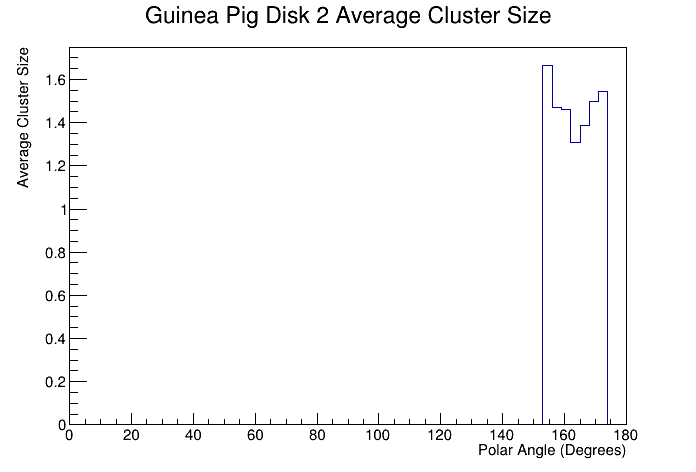
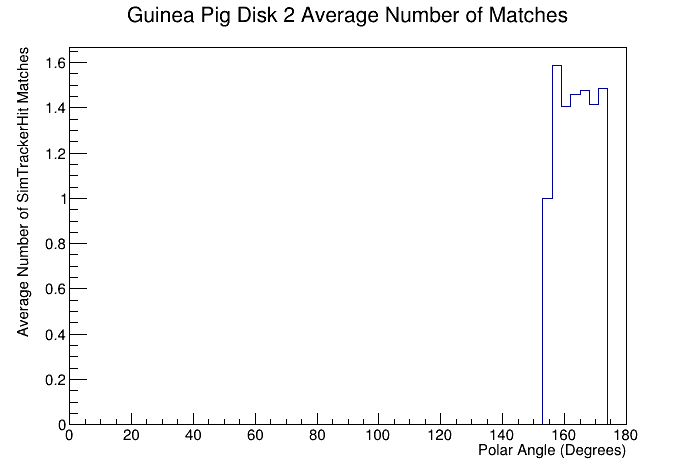
added new disk cluster plots

diff --git a/python/cluster_size_gp.py b/python/cluster_size_gp.py
@@ -107,10 +107,6 @@ def match_counter(particle, matches, detector_index, detector, first_hit = None,
     py = particle.getMomentum().y
     pz = particle.getMomentum().z
 
-    # if first_hit:
-    #     theta_i = theta(xi, yi, zi)
-    #     phi_i = phi(xi, yi)
-    # else:
     theta_i = theta(px, py, pz)
     phi_i = phi(px, py)
 
@@ -119,28 +115,10 @@ def match_counter(particle, matches, detector_index, detector, first_hit = None,
     else:
         coord = disk_z[detector_index]
 
-    # if first_hit:
-    #     new_hit = particle
-    # else:
     new_hit = None
-
     for hit in hits[coord]:
 
-        # if first_hit:
-        #     theta_i_p = theta(px, py, pz)
-        #     phi_i_p = phi(px, py)
-        #     theta_f_p = theta(hit.getMomentum().x, hit.getMomentum().y, hit.getMomentum().z)
-        #     phi_f_p = phi(hit.getMomentum().x, hit.getMomentum().y)
-        #     delta_p = (theta_f_p - theta_i_p)**2 + (min(abs(phi_f_p - phi_i_p), 2*math.pi - abs(phi_f_p - phi_i_p)))**2
-
-        #     theta_f = theta(hit.getPosition().x, hit.getPosition().y, hit.getPosition().z)
-        #     phi_f = phi(hit.getPosition().x, hit.getPosition().y)
-        #     delta_pos = (theta_f - theta_i)**2 + (min(abs(phi_f - phi_i), 2*math.pi - abs(phi_f - phi_i)))**2
-
-        #     delta = delta_p + delta_pos
-        # else:
         delta = delta_squared(theta_i, phi_i, xi, yi, zi, hit)
-
         if delta < 0.01:
             matches[coord] += 1
             new_hit = hit
@@ -157,7 +135,6 @@ def match_counter(particle, matches, detector_index, detector, first_hit = None,
         return match_counter(new_hit, matches, detector_index + 1, detector, first_hit)
 
 all_matches = {coord: {ang: [] for ang in range(0, 180, 3)} for coord in layer_radii + disk_z}
-# all_deltas = {coord: {ang: [] for ang in range(0, 180, 3)} for coord in layer_radii + disk_z}
 for i in range(100):
     print(f"starting event {i}")
     event = events[i]
@@ -182,13 +159,21 @@ for i in range(100):
             continue
 
         th = theta(first_hit.getPosition().x, first_hit.getPosition().y, first_hit.getPosition().z) * (180 / math.pi)
-
         for r in barrel_matches:
             if barrel_matches[r] != 0:
                 all_matches[r][int((th // 3) * 3)].append(barrel_matches[r])
 
+        disk_matches, first_hit = match_counter(particle, {z: 0 for z in disk_z}, 0, "disk", None, True)
+        if first_hit is None:
+            continue
+
+        th = theta(first_hit.getPosition().x, first_hit.getPosition().y, first_hit.getPosition().z) * (180 / math.pi)
+        for z in disk_matches:
+            if disk_matches[z] != 0:
+                all_matches[z][int((th // 3) * 3)].append(disk_matches[z])
+
 for layer_index in range(5):
-    # print(f"Number of matches for layer {layer_index + 1}: {all_matches[layer_radii[layer_index]]}")
+
     hist = ROOT.TH1F("size", f"Guinea Pig Layer {layer_index + 1} Average Number of Matches", 60, 0, 180)
     for ang in range(0, 180, 3):
         if not all_matches[layer_radii[layer_index]][ang]:
@@ -203,21 +188,17 @@ for layer_index in range(5):
     canvas.Update()
     canvas.SaveAs(f"../plots/cluster_sizes/guinea_pig/gp_layer{layer_index + 1}_cluster_size_test2.png")
 
-# for disk_index in range(6):
-#     hist = ROOT.TH1F("size", f"Guinea Pig Disk {disk_index + 1} Average Number of Matches", 60, 0, 180)
-#     for ang in range(0, 180, 3):
-#         if not all_matches[disk_z[disk_index]][ang]:
-#             hist.SetBinContent((ang//3) + 1, 0)
-#         else:
-#             hist.SetBinContent((ang//3) + 1, np.mean(all_matches[disk_z[disk_index]][ang]))
-#     hist.GetXaxis().SetTitle("Polar Angle (Degrees)")
-#     hist.GetYaxis().SetTitle("Average Number of SimTrackerHit Matches")
-#     hist.SetStats(0)
-#     canvas = ROOT.TCanvas("size", f"Guinea Pig Disk {disk_index + 1} Average Number of Matches")
-#     hist.Draw()
-#     canvas.Update()
-#     canvas.SaveAs(f"../plots/cluster_sizes/guinea_pig/gp_disk{disk_index + 1}_cluster_size_test.png")
-
-# `for ang in all_deltas[14]:
-#     print(f"Mean delta for layer 1, angle {ang}: {np.mean(all_deltas[14][ang])}")
-#     print(f"Standard deviation: {np.std(all_deltas[14][ang])}")`
+for disk_index in range(6):
+    hist = ROOT.TH1F("size", f"Guinea Pig Disk {disk_index + 1} Average Number of Matches", 60, 0, 180)
+    for ang in range(0, 180, 3):
+        if not all_matches[disk_z[disk_index]][ang]:
+            hist.SetBinContent((ang//3) + 1, 0)
+        else:
+            hist.SetBinContent((ang//3) + 1, np.mean(all_matches[disk_z[disk_index]][ang]))
+    hist.GetXaxis().SetTitle("Polar Angle (Degrees)")
+    hist.GetYaxis().SetTitle("Average Number of SimTrackerHit Matches")
+    hist.SetStats(0)
+    canvas = ROOT.TCanvas("size", f"Guinea Pig Disk {disk_index + 1} Average Number of Matches")
+    hist.Draw()
+    canvas.Update()
+    canvas.SaveAs(f"../plots/cluster_sizes/guinea_pig/gp_disk{disk_index + 1}_cluster_size_test.png")

diff --git a/python/hit_rate_mapper.py b/python/hit_rate_mapper.py
@@ -57,9 +57,12 @@ def z_coord(hit):
             return z
     raise ValueError(f"Not close enough to any of the disks {true_z}")
 
-hit_map = {coord: {cos: {azimuthal: {particle: [0] * 100 \
-            for particle in particles.values()} for azimuthal in range(0, 360, 3)} \
-                for cos in range(-50, 50, 2)} for coord in layer_radii + disk_z}
+# hit_map = {coord: {cos: {azimuthal: {particle: [0] * 100 \
+#             for particle in particles.values()} for azimuthal in range(0, 360, 3)} \
+#                 for cos in range(-50, 50, 2)} for coord in layer_radii + disk_z}
+
+hit_map = {coord: {cos: {azimuthal: [0] * 100 for azimuthal in range(0, 360, 3)} \
+                   for cos in range(-50, 50, 2)} for coord in layer_radii + disk_z}
 
 for i in range(100):
     event = events[i]
@@ -75,23 +78,29 @@ for i in range(100):
 
     for coord in layer_radii + disk_z:
         for hit in hits[coord]:
-            
-            mc = hit.getMCParticle()
-            pdg = mc.getPDG()
-            if pdg in particles:
-                particle = particles[pdg]
-            else:
+            if hit.getEDep() < 0.000002:
                 continue
+
+            mc = hit.getMCParticle()
+            # pdg = mc.getPDG()
+
+            # if pdg in particles:
+            #     particle = particles[pdg]
+            # else:
+            #     continue
+
             cos_th = math.cos(theta(hit.getPosition().x, hit.getPosition().y, hit.getPosition().z))
             ph = phi(hit.getPosition().x, hit.getPosition().y) * (180 / math.pi)
-            hit_map[coord][int(((50 * cos_th) // 2) * 2)][int((ph // 3) * 3)][particle][i] += 1
+            # hit_map[coord][int(((50 * cos_th) // 2) * 2)][int((ph // 3) * 3)][particle][i] += 1
+            hit_map[coord][int(((50 * cos_th) // 2) * 2)][int((ph // 3) * 3)][i] += 1
 
 for layer_index in range(5):
-    for particle in particles.values():
+    # for particle in particles.values():
 
         r = true_radii[layer_index]
-        hist = ROOT.TH2F("hit map", f"Guinea Pig Layer {layer_index + 1} {particle.capitalize()} Hits", 120, 0, 360, 50, -1, 1)
-        hist.SetTitle(f"Guinea Pig Layer {layer_index + 1} {particle.capitalize()} Hits Per Area (cm ^-2);Azimuthal Angle (deg);Cosine Theta")
+        hist = ROOT.TH2F("hit map", f"Guinea Pig Layer {layer_index + 1} Hits", 120, 0, 360, 50, -1, 1)
+        # hist.SetTitle(f"Guinea Pig Layer {layer_index + 1} {particle.capitalize()} Hits Per Area (cm ^-2);Azimuthal Angle (deg);Cosine Theta")
+        hist.SetTitle(f"Guinea Pig Layer {layer_index + 1} Hits Per Area (cm ^-2);Azimuthal Angle (deg);Cosine Theta")
 
         for cos_th in range(-50, 50, 2):
             polar = math.acos((cos_th + 1) / 50)
@@ -100,12 +109,14 @@ for layer_index in range(5):
             area_den = math.sin(polar) ** 2
             area = area_num / area_den
             for azimuthal in range(0, 360, 3):
-                hits = np.mean(hit_map[layer_radii[layer_index]][cos_th][azimuthal][particle])
+                # hits = np.mean(hit_map[layer_radii[layer_index]][cos_th][azimuthal][particle])
+                hits = np.mean(hit_map[layer_radii[layer_index]][cos_th][azimuthal])
                 hist.SetBinContent((azimuthal // 3) + 1, (cos_th // 2) + 26, hits / area)
 
         hist.SetStats(0)
-        canvas = ROOT.TCanvas("hit map", f"Guinea Pig Layer {layer_index + 1} {particle.capitalize()} Hits Per Area")
+        canvas = ROOT.TCanvas("hit map", f"Guinea Pig Layer {layer_index + 1} Hits Per Area")
         canvas.SetRightMargin(0.12)
         hist.Draw("colz")
         canvas.Update()
-        canvas.SaveAs(f"../plots/hit_rates/gp_layer{layer_index + 1}_{particle}_hit_rate.png")
+        # canvas.SaveAs(f"../plots/hit_rates/gp_layer{layer_index + 1}_{particle}_hit_rate_test.png")
+        canvas.SaveAs(f"../plots/hit_rates/gp_layer{layer_index + 1}_hit_rate_test.png")
